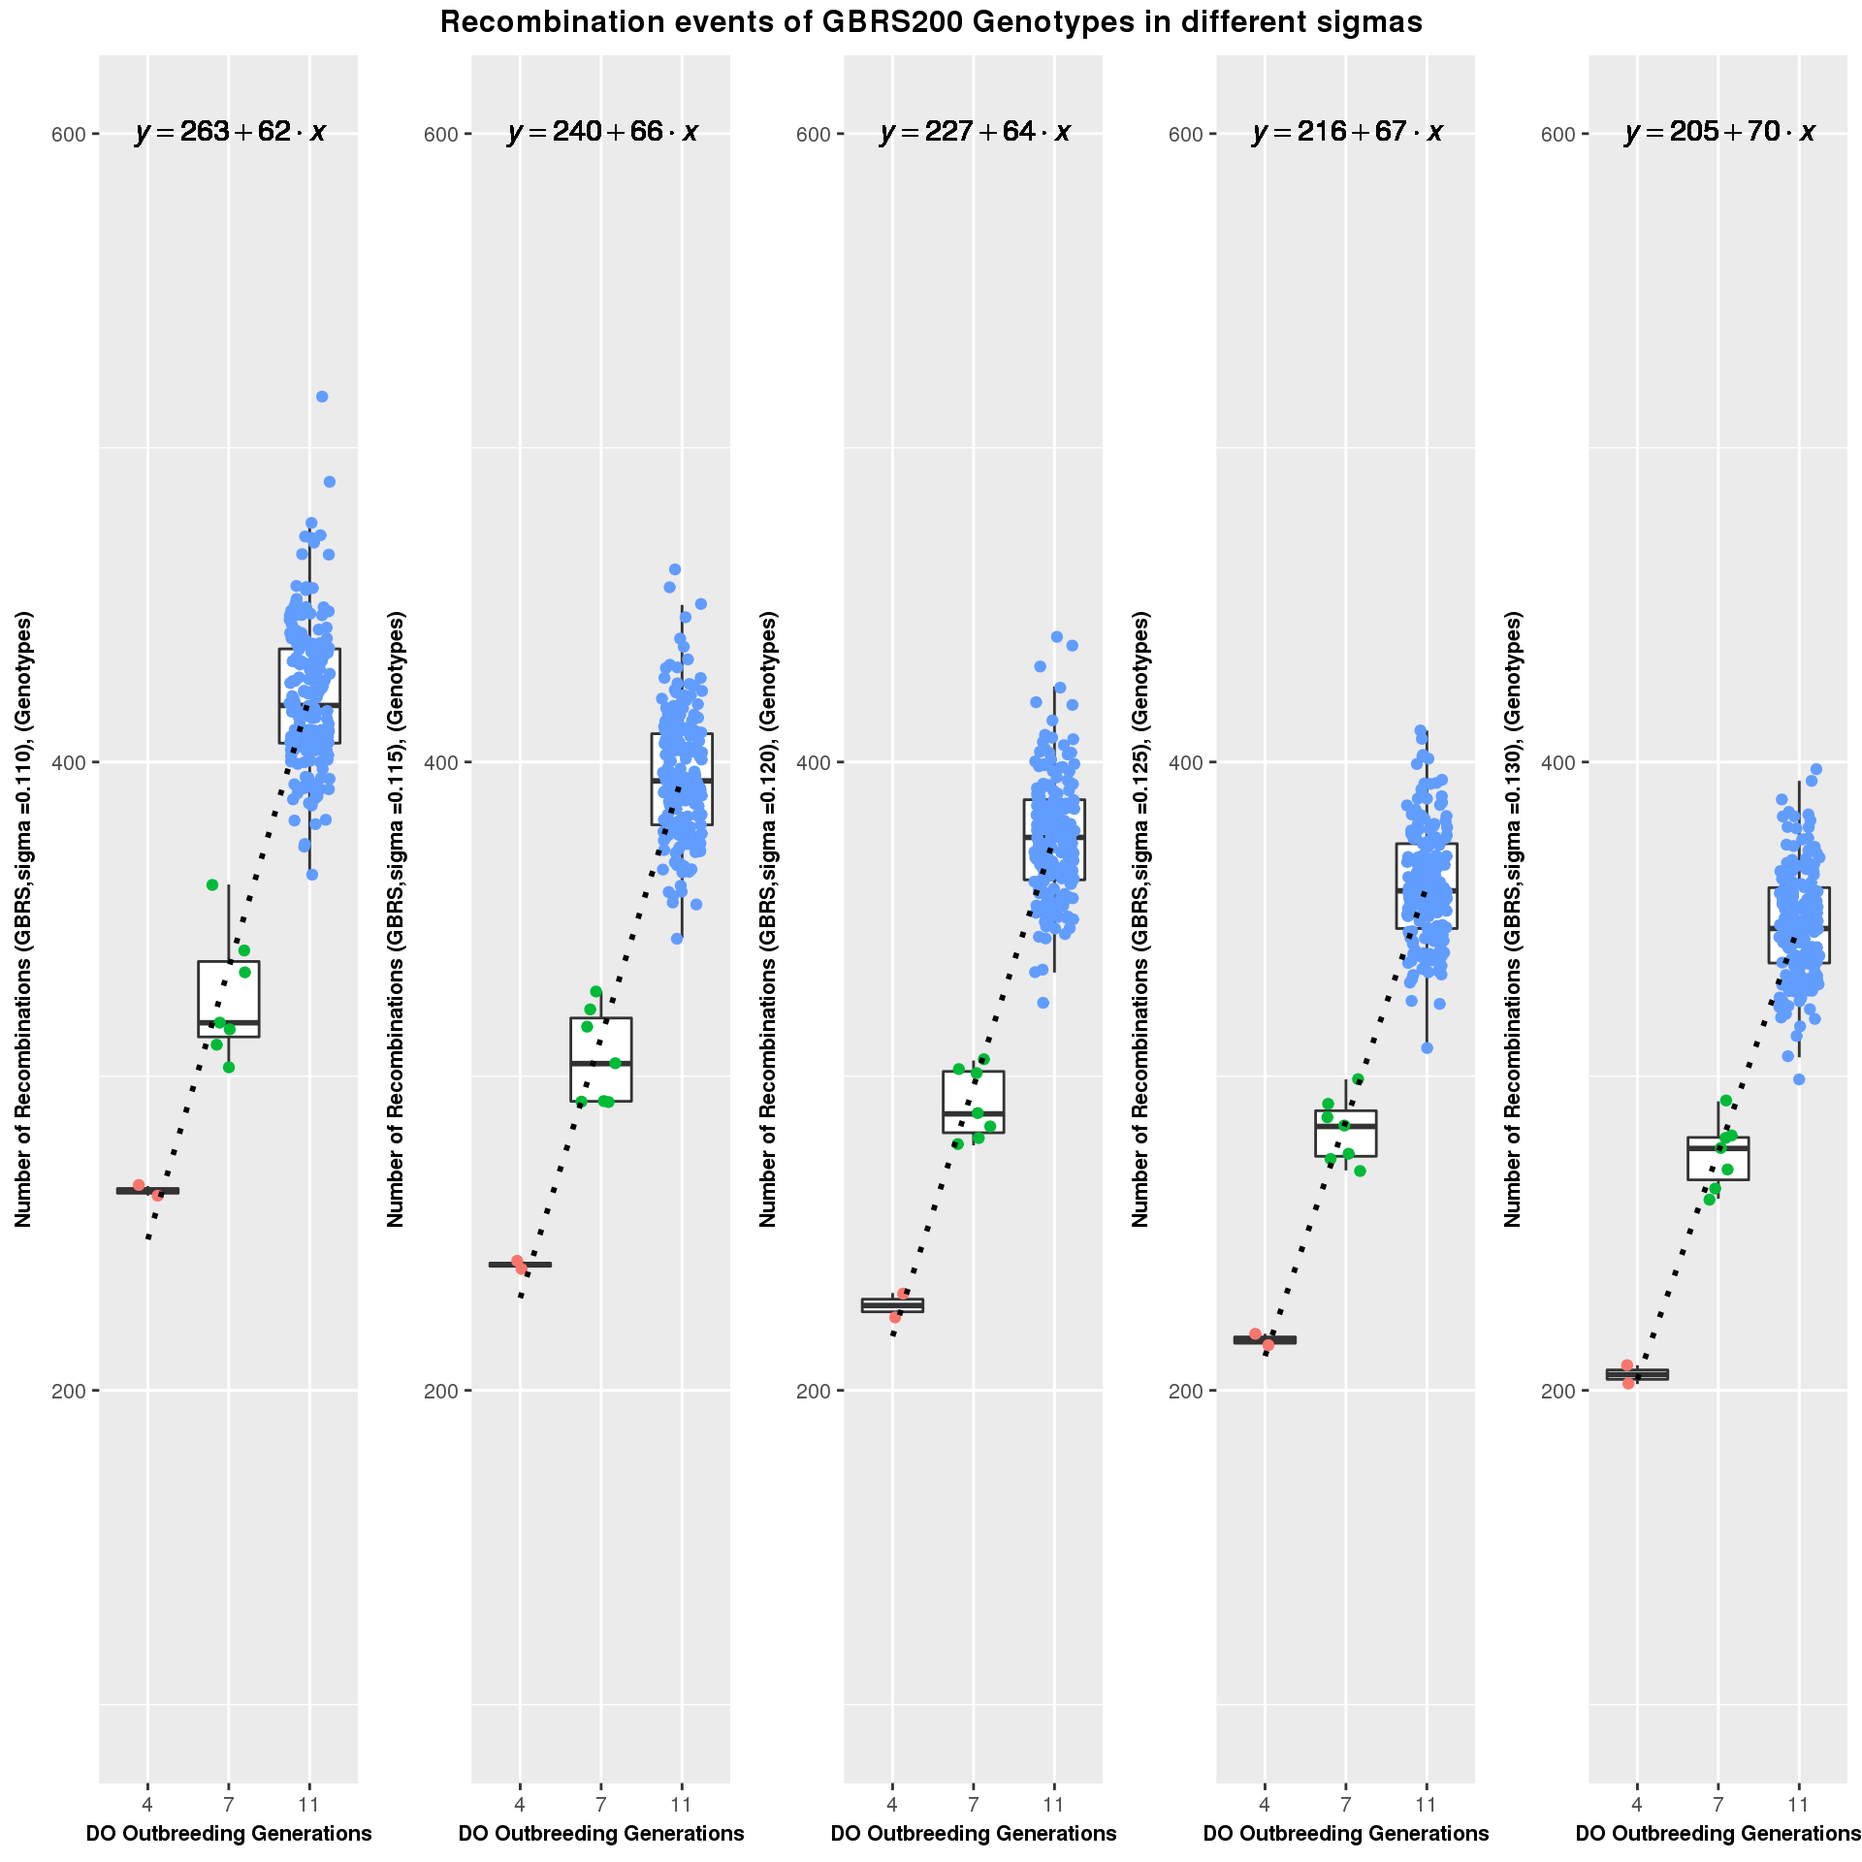
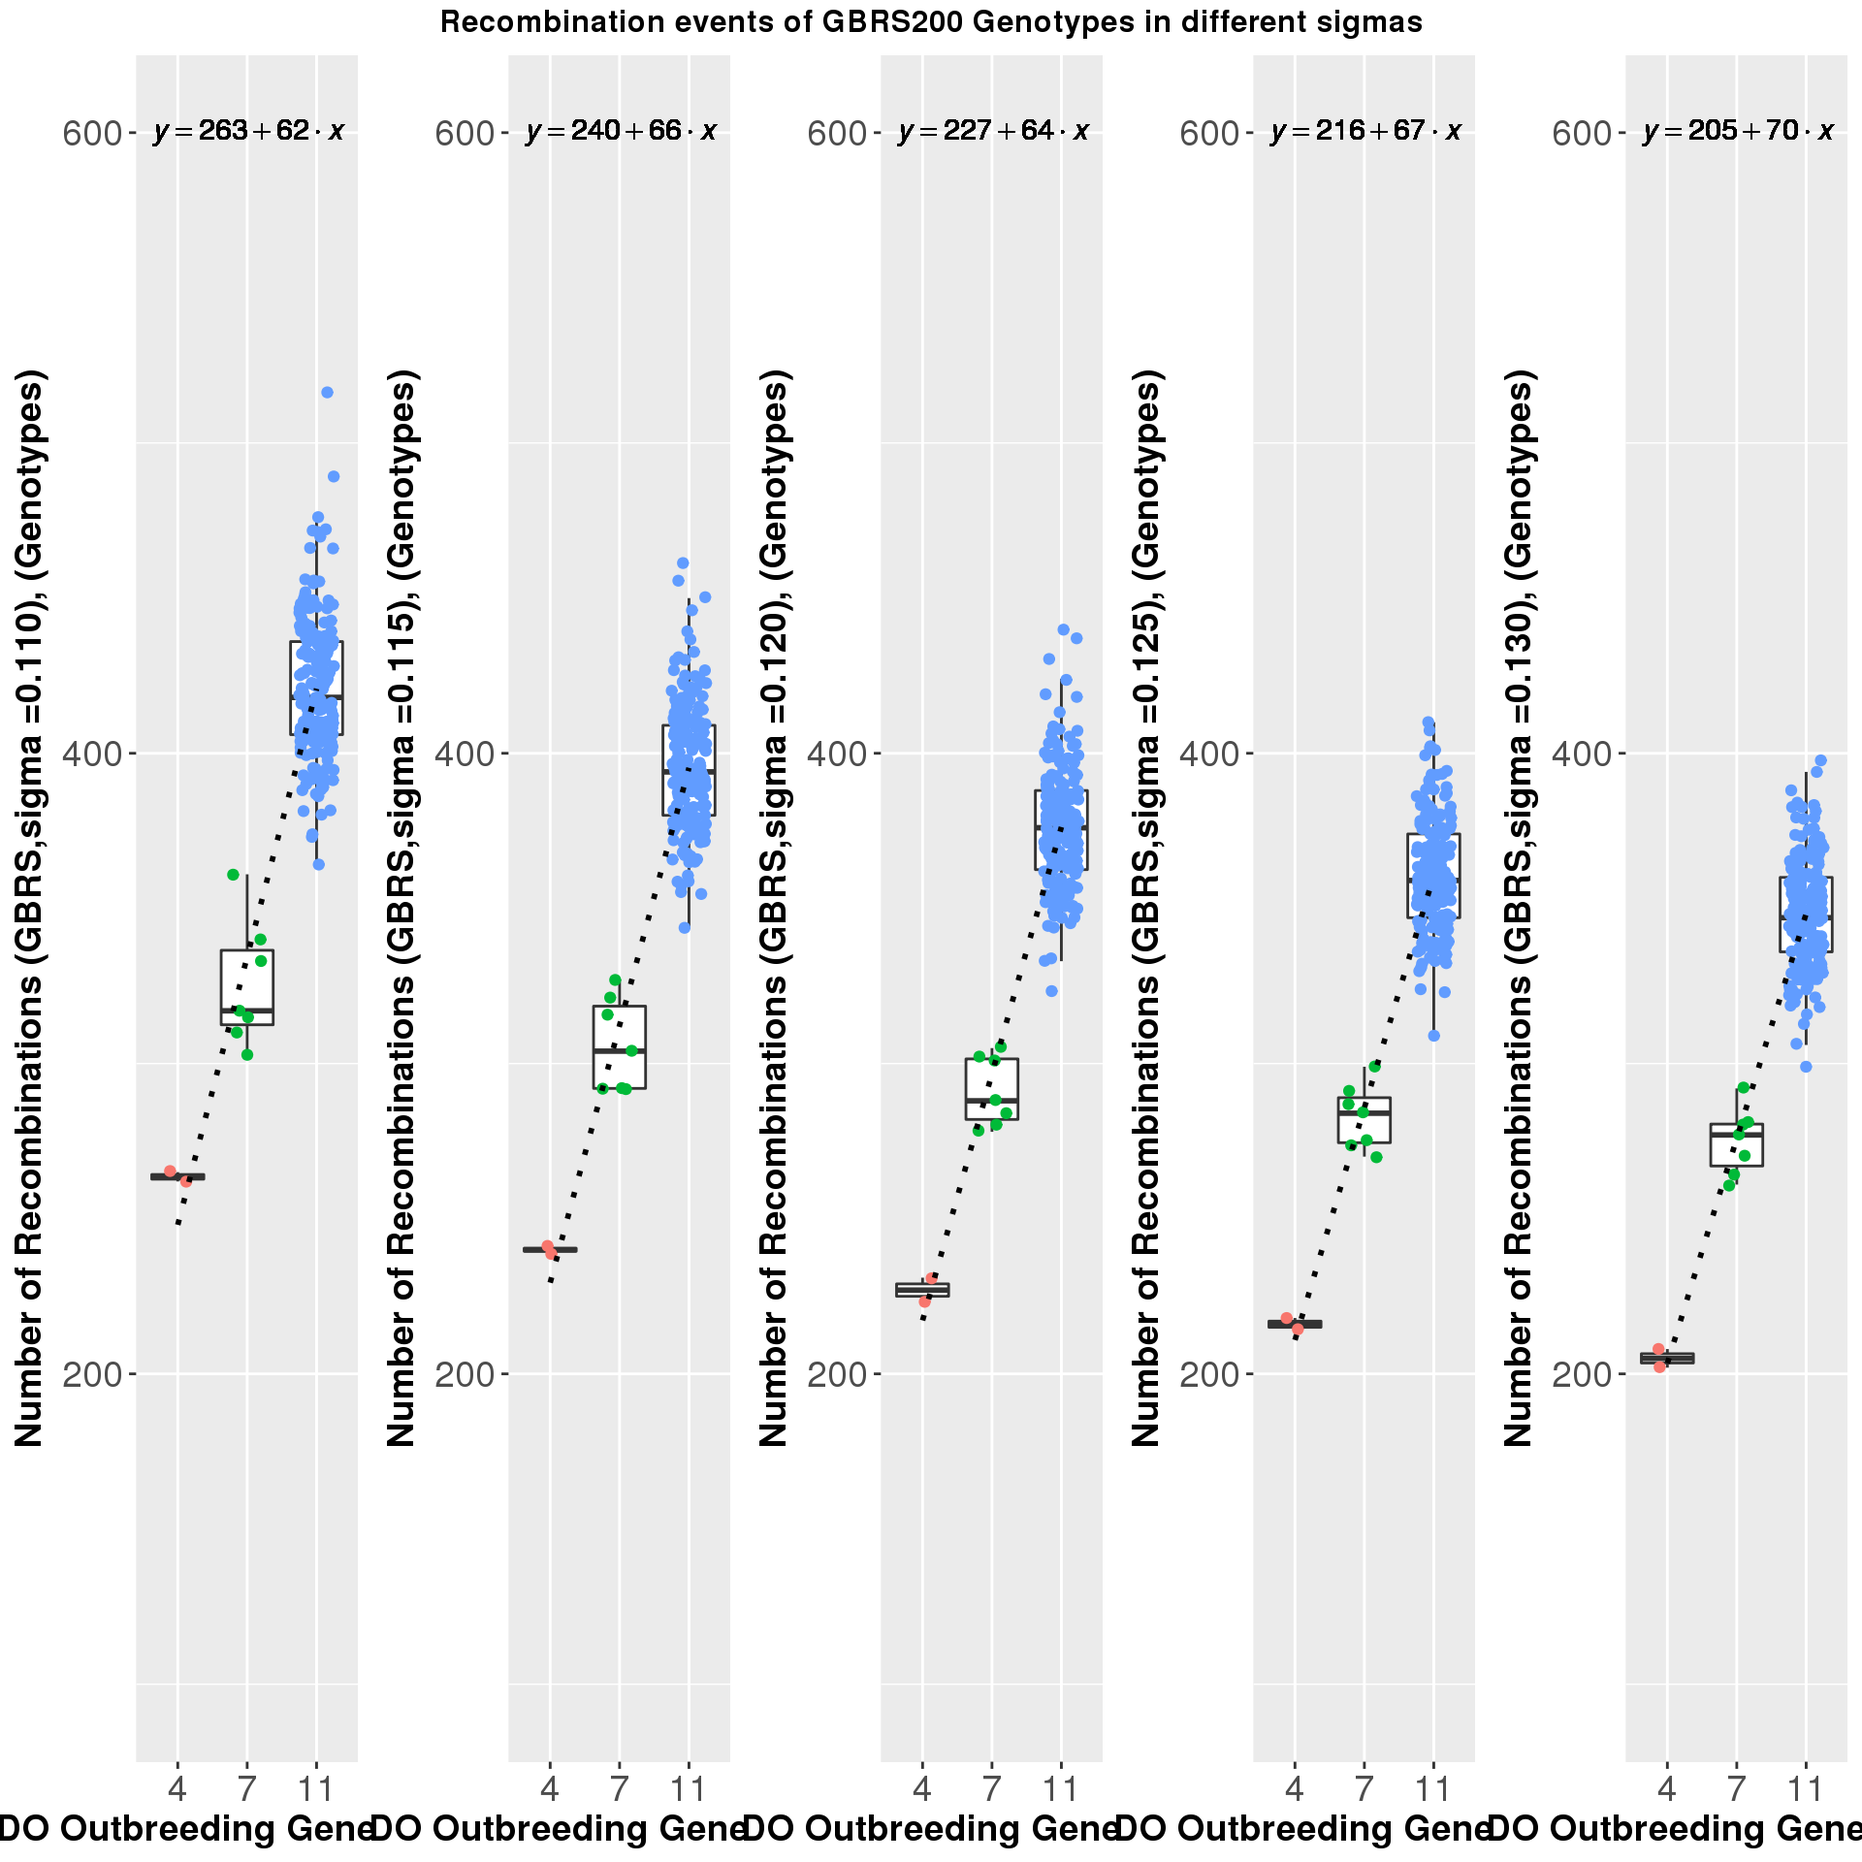
Build site.

diff --git a/docs/Recombination.html b/docs/Recombination.html
@@ -350,7 +350,7 @@ div.section {
 </details>
 </li>
 <li>
-<p><details> <summary> <strong style="color:blue;">✔</strong> <strong>Repository version:</strong> <a href="https://github.com/xhyuo/Workflowr_GBRS_array/tree/e7cd6cc387b6020c6e9b8512a541eaa1cdf67319" target="_blank">e7cd6cc</a> </summary></p>
+<p><details> <summary> <strong style="color:blue;">✔</strong> <strong>Repository version:</strong> <a href="https://github.com/xhyuo/Workflowr_GBRS_array/tree/5236174516849523d78588a92dcfccb9828e712a" target="_blank">5236174</a> </summary></p>
 Great! You are using Git for version control. Tracking code development and connecting the code version to the results is critical for reproducibility. The version displayed above was the version of the Git repository at the time these results were generated. <br><br> Note that you need to be careful to ensure that all relevant files for the analysis have been committed to Git prior to generating the results (you can use <code>wflow_publish</code> or <code>wflow_git_commit</code>). workflowr only checks the R Markdown file, but you know if there are other scripts or data files that it depends on. Below is the status of the Git repository when the results were generated:
 <pre><code>
 Ignored files:
@@ -393,6 +393,40 @@ Message
 </tr>
 </thead>
 <tbody>
+<tr>
+<td style="text-align:left;">
+Rmd
+</td>
+<td style="text-align:left;">
+<a href="https://github.com/xhyuo/Workflowr_GBRS_array/blob/5236174516849523d78588a92dcfccb9828e712a/analysis/Recombination.Rmd" target="_blank">5236174</a>
+</td>
+<td style="text-align:left;">
+xhyuo
+</td>
+<td style="text-align:left;">
+2018-11-16
+</td>
+<td style="text-align:left;">
+update requested2 plot building
+</td>
+</tr>
+<tr>
+<td style="text-align:left;">
+html
+</td>
+<td style="text-align:left;">
+<a href="https://cdn.rawgit.com/xhyuo/Workflowr_GBRS_array/a91272c7f65e07e97e785f924a71b857bc9897ab/docs/Recombination.html" target="_blank">a91272c</a>
+</td>
+<td style="text-align:left;">
+xhyuo
+</td>
+<td style="text-align:left;">
+2018-11-16
+</td>
+<td style="text-align:left;">
+Build site.
+</td>
+</tr>
 <tr>
 <td style="text-align:left;">
 html
@@ -557,7 +591,7 @@ p1 &lt;-ggplot(recomb.muga.plot, aes(x = Gen, y = recomb)) +
   geom_jitter(position = position_jitter(0.25), aes(colour = Gen)) +
   theme(legend.position=&quot;none&quot;) +
   geom_smooth(method = &quot;lm&quot;, se=FALSE, color=&quot;black&quot;, aes(group=1), linetype=&quot;dotted&quot;) +
-  geom_text(x = 2, y = 700, size = 8, 
+  geom_text(x = 2, y = 700, size = 4, 
             label = lm_eqn(df = data.frame(y = recomb.muga.plot$recomb, x = recomb.muga.plot$Gen)), parse = TRUE) +
   labs(x = &quot;DO Outbreeding Generations&quot;) +
   labs(y = &quot;Number of Recombinations (MUGA)&quot;) +
@@ -856,7 +890,7 @@ for (sg in sigma){
     theme(plot.title = element_text(hjust = 0.5)) +
     ylim(100, 500) +
     theme(plot.title = element_text(hjust = 0.5)) +
-    theme(axis.text=element_text(size=8),axis.title=element_text(size=8,face=&quot;bold&quot;))
+    theme(axis.text=element_text(size=14),axis.title=element_text(size=14,face=&quot;bold&quot;))
   
   print(p[[sg]])
   
@@ -1022,7 +1056,7 @@ xhyuo
 </table>
 <p></details></p>
 <pre class="r"><code>#plot between GBRS sigmas
-grid.arrange(p[[1]],p[[2]],p[[3]],p[[4]],p[[5]], ncol=5,top = textGrob(&quot;Recombination events of GBRS282 Genotypes in different sigmas&quot;,gp=gpar(fontsize=12,font=2)))</code></pre>
+grid.arrange(p[[1]],p[[2]],p[[3]],p[[4]],p[[5]], ncol=5,top = textGrob(&quot;Recombination events of GBRS282 Genotypes in different sigmas&quot;,gp=gpar(fontsize=14,font=2)))</code></pre>
 <p><img src="figure/Recombination.Rmd/Recombination%20GBRS282%20(Genotypes)-6.png" width="1920" style="display: block; margin: auto;" /></p>
 <details> <summary><em>Expand here to see past versions of Recombination GBRS282 (Genotypes)-6.png:</em></summary>
 <table style="border-collapse:separate; border-spacing:5px;">
@@ -1085,7 +1119,7 @@ p1 &lt;-ggplot(recomb.muga.plot, aes(x = Gen, y = recomb)) +
   geom_jitter(position = position_jitter(0.25), aes(colour = Gen)) +
   theme(legend.position=&quot;none&quot;) +
   geom_smooth(method = &quot;lm&quot;, se=FALSE, color=&quot;black&quot;, aes(group=1), linetype=&quot;dotted&quot;) +
-  geom_text(x = 2, y = 700, size = 8, 
+  geom_text(x = 2, y = 1500, size = 4, 
             label = lm_eqn(df = data.frame(y = recomb.muga.plot$recomb, x = recomb.muga.plot$Gen)),
             parse = TRUE) +
   labs(x = &quot;DO Outbreeding Generations&quot;) +
@@ -1143,7 +1177,7 @@ p2 &lt;-ggplot(recomb.muga.plot, aes(x = Gen, y = recomb)) +
   geom_jitter(position = position_jitter(0.25), aes(colour = Gen)) +
   theme(legend.position=&quot;none&quot;) +
   geom_smooth(method = &quot;lm&quot;, se=FALSE, color=&quot;black&quot;, aes(group=1), linetype=&quot;dotted&quot;) +
-  geom_text(x = 2, y = 700, size = 8, 
+  geom_text(x = 2, y = 700, size = 4, 
             label = lm_eqn(df = data.frame(y = recomb.muga.plot$recomb, x = recomb.muga.plot$Gen)),
             parse = TRUE) +
   labs(x = &quot;DO Outbreeding Generations&quot;) +
@@ -1204,7 +1238,7 @@ for (sg in sigma){
     geom_jitter(position = position_jitter(0.25), aes(colour = Gen)) +
     theme(legend.position=&quot;none&quot;) +
     geom_smooth(method = &quot;lm&quot;, se=FALSE, color=&quot;black&quot;, aes(group=1), linetype=&quot;dotted&quot;) +
-    geom_text(x = 2, y = 700, size = 8, 
+    geom_text(x = 2, y = 700, size = 4, 
             label = lm_eqn(df = data.frame(y = recomb.GBRS.plot$recomb, x = recomb.GBRS.plot$Gen)),
             parse = TRUE) +
     labs(x = &quot;DO Outbreeding Generations&quot;) +
@@ -1367,7 +1401,7 @@ xhyuo
 </table>
 <p></details></p>
 <pre class="r"><code>#plot between GBRS and MUGA
-grid.arrange(p2,p[[1]],p[[2]],p[[3]],p[[4]],p[[5]], ncol=6,top = textGrob(&quot;Recombination events between GBRS and MEGAMUGA&quot;,gp=gpar(fontsize=20,font=3)))</code></pre>
+grid.arrange(p2,p[[1]],p[[2]],p[[3]],p[[4]],p[[5]], ncol=6,top = textGrob(&quot;Recombination events between GBRS and MEGAMUGA&quot;,gp=gpar(fontsize=12,font=2)))</code></pre>
 <p><img src="figure/Recombination.Rmd/Recombination%20comparsion%20between%20MEGAMUGA200%20and%20GBRS200%20(Genoprobs)-10.png" width="960" style="display: block; margin: auto;" /></p>
 <details> <summary><em>Expand here to see past versions of Recombination comparsion between MEGAMUGA200 and GBRS200 (Genoprobs)-10.png:</em></summary>
 <table style="border-collapse:separate; border-spacing:5px;">
@@ -1444,7 +1478,7 @@ for (sg in sigma){
     theme(plot.title = element_text(hjust = 0.5)) +
     ylim(100, 600) +
     theme(plot.title = element_text(hjust = 0.5)) +
-    theme(axis.text=element_text(size=8),axis.title=element_text(size=8,face=&quot;bold&quot;))
+    theme(axis.text=element_text(size=14),axis.title=element_text(size=14,face=&quot;bold&quot;))
   
   print(p[[sg]])
   

diff --git a/docs/Cis-eQTL.html b/docs/Cis-eQTL.html
@@ -342,7 +342,7 @@ div.section {
 </details>
 </li>
 <li>
-<p><details> <summary> <strong style="color:blue;">✔</strong> <strong>Repository version:</strong> <a href="https://github.com/xhyuo/Workflowr_GBRS_array/tree/e7cd6cc387b6020c6e9b8512a541eaa1cdf67319" target="_blank">e7cd6cc</a> </summary></p>
+<p><details> <summary> <strong style="color:blue;">✔</strong> <strong>Repository version:</strong> <a href="https://github.com/xhyuo/Workflowr_GBRS_array/tree/5236174516849523d78588a92dcfccb9828e712a" target="_blank">5236174</a> </summary></p>
 Great! You are using Git for version control. Tracking code development and connecting the code version to the results is critical for reproducibility. The version displayed above was the version of the Git repository at the time these results were generated. <br><br> Note that you need to be careful to ensure that all relevant files for the analysis have been committed to Git prior to generating the results (you can use <code>wflow_publish</code> or <code>wflow_git_commit</code>). workflowr only checks the R Markdown file, but you know if there are other scripts or data files that it depends on. Below is the status of the Git repository when the results were generated:
 <pre><code>
 Ignored files:
@@ -385,6 +385,40 @@ Message
 </tr>
 </thead>
 <tbody>
+<tr>
+<td style="text-align:left;">
+Rmd
+</td>
+<td style="text-align:left;">
+<a href="https://github.com/xhyuo/Workflowr_GBRS_array/blob/5236174516849523d78588a92dcfccb9828e712a/analysis/Cis-eQTL.Rmd" target="_blank">5236174</a>
+</td>
+<td style="text-align:left;">
+xhyuo
+</td>
+<td style="text-align:left;">
+2018-11-16
+</td>
+<td style="text-align:left;">
+update requested2 plot building
+</td>
+</tr>
+<tr>
+<td style="text-align:left;">
+html
+</td>
+<td style="text-align:left;">
+<a href="https://cdn.rawgit.com/xhyuo/Workflowr_GBRS_array/a91272c7f65e07e97e785f924a71b857bc9897ab/docs/Cis-eQTL.html" target="_blank">a91272c</a>
+</td>
+<td style="text-align:left;">
+xhyuo
+</td>
+<td style="text-align:left;">
+2018-11-16
+</td>
+<td style="text-align:left;">
+Build site.
+</td>
+</tr>
 <tr>
 <td style="text-align:left;">
 html
@@ -1055,6 +1089,9 @@ p.gbrs &lt;- list()
 #plot GBRS side by side
 for (sg in sigma){
   print(sg)
+  cislod.282.plot &lt;- data.frame(qgrid = seq(from=0.55, to=0.999, length=100), 
+                                lod.gbrs = quantile(lod.GBRS282[[sg]]$lod[!is.nan(lod.GBRS282[[sg]]$lod)], seq(from=0.55, to=0.999, length=100)))
+  
   p.gbrs[[sg]] &lt;- ggplot(cislod.282.plot, aes(qgrid)) + 
     geom_line(aes(y = lod.gbrs, colour = &quot;GBRS&quot;)) +
     xlab(&quot;Quantile of LODs&quot;) +
@@ -1629,6 +1666,8 @@ p.gbrs &lt;- list()
 #plot GBRS side by side
 for (sg in sigma){
   print(sg)
+  cislod.200.plot &lt;- data.frame(qgrid = seq(from=0.55, to=0.999, length=100), 
+                                lod.gbrs = quantile(lod.GBRS200[[sg]]$lod[!is.nan(lod.GBRS200[[sg]]$lod)], seq(from=0.55, to=0.999, length=100)))
   p.gbrs[[sg]] &lt;- ggplot(cislod.200.plot, aes(qgrid)) + 
     geom_line(aes(y = lod.gbrs, colour = &quot;GBRS&quot;)) +
     xlab(&quot;Quantile of LODs&quot;) +

diff --git a/docs/index.html b/docs/index.html
@@ -225,11 +225,12 @@ div.section {
 </details>
 </li>
 <li>
-<p><details> <summary> <strong style="color:blue;">✔</strong> <strong>Repository version:</strong> <a href="https://github.com/xhyuo/Workflowr_GBRS_array/tree/e7cd6cc387b6020c6e9b8512a541eaa1cdf67319" target="_blank">e7cd6cc</a> </summary></p>
+<p><details> <summary> <strong style="color:blue;">✔</strong> <strong>Repository version:</strong> <a href="https://github.com/xhyuo/Workflowr_GBRS_array/tree/5236174516849523d78588a92dcfccb9828e712a" target="_blank">5236174</a> </summary></p>
 Great! You are using Git for version control. Tracking code development and connecting the code version to the results is critical for reproducibility. The version displayed above was the version of the Git repository at the time these results were generated. <br><br> Note that you need to be careful to ensure that all relevant files for the analysis have been committed to Git prior to generating the results (you can use <code>wflow_publish</code> or <code>wflow_git_commit</code>). workflowr only checks the R Markdown file, but you know if there are other scripts or data files that it depends on. Below is the status of the Git repository when the results were generated:
 <pre><code>
 Ignored files:
     Ignored:    .Rproj.user/
+    Ignored:    analysis/figure/
 
 Untracked files:
     Untracked:  analysis/old_analysis/
@@ -268,6 +269,23 @@ Message
 </tr>
 </thead>
 <tbody>
+<tr>
+<td style="text-align:left;">
+html
+</td>
+<td style="text-align:left;">
+<a href="https://cdn.rawgit.com/xhyuo/Workflowr_GBRS_array/a91272c7f65e07e97e785f924a71b857bc9897ab/docs/index.html" target="_blank">a91272c</a>
+</td>
+<td style="text-align:left;">
+xhyuo
+</td>
+<td style="text-align:left;">
+2018-11-16
+</td>
+<td style="text-align:left;">
+Build site.
+</td>
+</tr>
 <tr>
 <td style="text-align:left;">
 html

diff --git a/docs/license.html b/docs/license.html
@@ -225,7 +225,7 @@ div.section {
 </details>
 </li>
 <li>
-<p><details> <summary> <strong style="color:blue;">✔</strong> <strong>Repository version:</strong> <a href="https://github.com/xhyuo/Workflowr_GBRS_array/tree/e7cd6cc387b6020c6e9b8512a541eaa1cdf67319" target="_blank">e7cd6cc</a> </summary></p>
+<p><details> <summary> <strong style="color:blue;">✔</strong> <strong>Repository version:</strong> <a href="https://github.com/xhyuo/Workflowr_GBRS_array/tree/5236174516849523d78588a92dcfccb9828e712a" target="_blank">5236174</a> </summary></p>
 Great! You are using Git for version control. Tracking code development and connecting the code version to the results is critical for reproducibility. The version displayed above was the version of the Git repository at the time these results were generated. <br><br> Note that you need to be careful to ensure that all relevant files for the analysis have been committed to Git prior to generating the results (you can use <code>wflow_publish</code> or <code>wflow_git_commit</code>). workflowr only checks the R Markdown file, but you know if there are other scripts or data files that it depends on. Below is the status of the Git repository when the results were generated:
 <pre><code>
 Ignored files:
@@ -268,6 +268,23 @@ Message
 </tr>
 </thead>
 <tbody>
+<tr>
+<td style="text-align:left;">
+html
+</td>
+<td style="text-align:left;">
+<a href="https://cdn.rawgit.com/xhyuo/Workflowr_GBRS_array/a91272c7f65e07e97e785f924a71b857bc9897ab/docs/license.html" target="_blank">a91272c</a>
+</td>
+<td style="text-align:left;">
+xhyuo
+</td>
+<td style="text-align:left;">
+2018-11-16
+</td>
+<td style="text-align:left;">
+Build site.
+</td>
+</tr>
 <tr>
 <td style="text-align:left;">
 html
